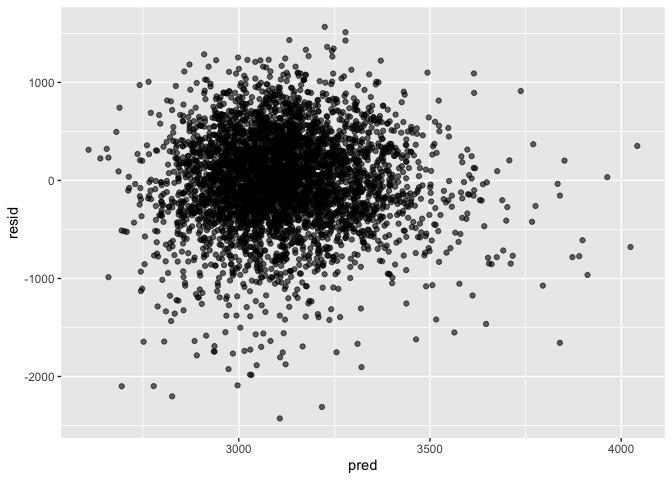
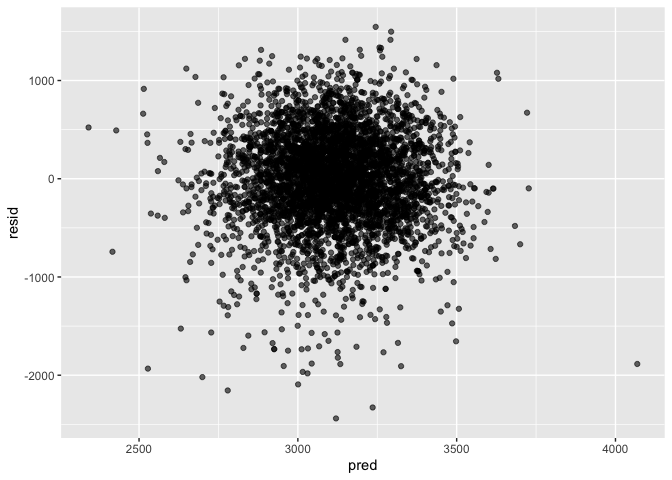
finish qustion 2, mmodifications needed. changed question 1 , model 1

diff --git a/p8105_hw6_yw3608.md b/p8105_hw6_yw3608.md
@@ -9,7 +9,7 @@ Yuxuan Wang
 
 ``` r
 bw_df = 
-  read_csv('data/birthweight.csv') %>% 
+  read_csv('./data/birthweight.csv') %>% 
   drop_na()
 ```
 
@@ -48,18 +48,18 @@ knitr::kable()
 **regression model**
 
 ``` r
- model1 = lm(bwt ~ wtgain * ppwt, data = bw_clean)
+ model1 = lm(bwt ~ wtgain * delwt, data = bw_clean)
   summary(model1) %>% 
   broom::tidy()
 ```
 
     ## # A tibble: 4 × 5
-    ##   term         estimate std.error statistic   p.value
-    ##   <chr>           <dbl>     <dbl>     <dbl>     <dbl>
-    ## 1 (Intercept) 2067.       81.3        25.4  6.60e-133
-    ## 2 wtgain        19.3       3.28        5.88 4.32e-  9
-    ## 3 ppwt           6.19      0.604      10.3  2.09e- 24
-    ## 4 wtgain:ppwt   -0.0525    0.0241     -2.18 2.92e-  2
+    ##   term         estimate std.error statistic  p.value
+    ##   <chr>           <dbl>     <dbl>     <dbl>    <dbl>
+    ## 1 (Intercept)  1763.      87.1        20.2  4.39e-87
+    ## 2 wtgain         27.1      3.31        8.18 3.57e-16
+    ## 3 delwt           8.03     0.592      13.6  4.76e-41
+    ## 4 wtgain:delwt   -0.125    0.0203     -6.19 6.73e-10
 
 ``` r
   bw_df %>% 
@@ -118,7 +118,7 @@ three-way interaction) between these
     test = map(test, as_tibble)
   ) %>% 
   mutate(
-    model1 = map(train, ~ lm(bwt~ wtgain * ppwt, data =.x )),
+    model1 = map(train, ~ lm(bwt~ wtgain * delwt, data =.x )),
     model2 = map(train, ~ lm(bwt ~ blength + gaweeks, data = .x)),
     model3 = map(train, ~ lm(bwt ~ bhead + blength + babysex + bhead*blength + bhead*babysex +       blength*babysex + bhead*blength*babysex, data = .x))) %>%
   
@@ -140,8 +140,9 @@ cvpe_df %>%
 ```
 
 ![](p8105_hw6_yw3608_files/figure-gfm/unnamed-chunk-5-1.png)<!-- -->
+\*\*According to the plot, the best model is model 3.
 
-# Pproblem2\*\*
+# Problem2
 
 ``` r
 weather_df = 
@@ -157,12 +158,107 @@ weather_df =
   select(name, id, everything())
 ```
 
-    ## Registered S3 method overwritten by 'hoardr':
-    ##   method           from
-    ##   print.cache_info httr
+**bootstrap and calculate r^2, ci and plot**
 
-    ## using cached file: ~/Library/Caches/R/noaa_ghcnd/USW00094728.dly
+``` r
+bootstrap_df_r2 = 
+  weather_df %>%
+  bootstrap(n = 5000, id = "bootstrap")%>%
+ mutate(
+    fit =map(.x = strap, ~lm(tmax ~ tmin, data = .x)),
+    result = map(fit, broom::glance)
+    ) %>%
+  select(bootstrap,result)%>%
+  unnest(result)
 
-    ## date created (size, mb): 2021-12-04 15:34:04 (7.616)
 
-    ## file min/max dates: 1869-01-01 / 2021-12-31
+r_2_CI =
+  bootstrap_df_r2 %>% 
+  summarize(
+  lower_bound = quantile(adj.r.squared, 0.025), 
+  upper_bound = quantile(adj.r.squared, 0.975)) %>% 
+  knitr::kable() 
+r_2_CI   
+```
+
+| lower\_bound | upper\_bound |
+|-------------:|-------------:|
+|    0.8937935 |    0.9269726 |
+
+``` r
+r_2_plot =
+  bootstrap_df_r2 %>% 
+  ggplot(aes(x = r.squared)) +
+  geom_density() 
+r_2_plot
+```
+
+![](p8105_hw6_yw3608_files/figure-gfm/unnamed-chunk-7-1.png)<!-- -->
+
+**bootstrap and calculate log(β̂ 0∗β̂ 1), ci and plot**
+
+``` r
+bootstrap_df_log = 
+  weather_df %>%
+  bootstrap(n = 5000, id = "bootstrap")%>%
+ mutate(
+    fit =map(.x = strap, ~lm(tmax ~ tmin, data = .x)),
+    result2 = map(fit, broom::tidy)
+    ) %>%
+  select(bootstrap,result2)%>%
+  unnest(result2)
+
+
+log =
+  bootstrap_df_log %>% 
+  select(bootstrap, term, estimate) %>% 
+  pivot_wider(
+    names_from = term,
+    values_from = estimate) %>% 
+  select(intercept ="(Intercept)",tmin) %>% 
+  mutate(log = log(intercept*tmin)) 
+  
+log_showresult =
+  head(log,10) %>%
+  select(log) %>% 
+  knitr::kable() 
+log_showresult
+```
+
+|      log |
+|---------:|
+| 2.041461 |
+| 2.003468 |
+| 2.000735 |
+| 1.995351 |
+| 2.005406 |
+| 2.005138 |
+| 1.993128 |
+| 2.021069 |
+| 2.007625 |
+| 2.010394 |
+
+``` r
+log_CI =
+log %>% 
+  summarize(
+    lower_bound = quantile(log, 0.025),
+    upper_bound = quantile(log, 0.975)
+  ) %>% 
+  knitr::kable()
+log_CI
+```
+
+| lower\_bound | upper\_bound |
+|-------------:|-------------:|
+|     1.965332 |     2.059461 |
+
+``` r
+log_plot = 
+log %>% 
+  ggplot(aes(x = log)) +
+  geom_density() 
+log_plot
+```
+
+![](p8105_hw6_yw3608_files/figure-gfm/unnamed-chunk-8-1.png)<!-- -->
